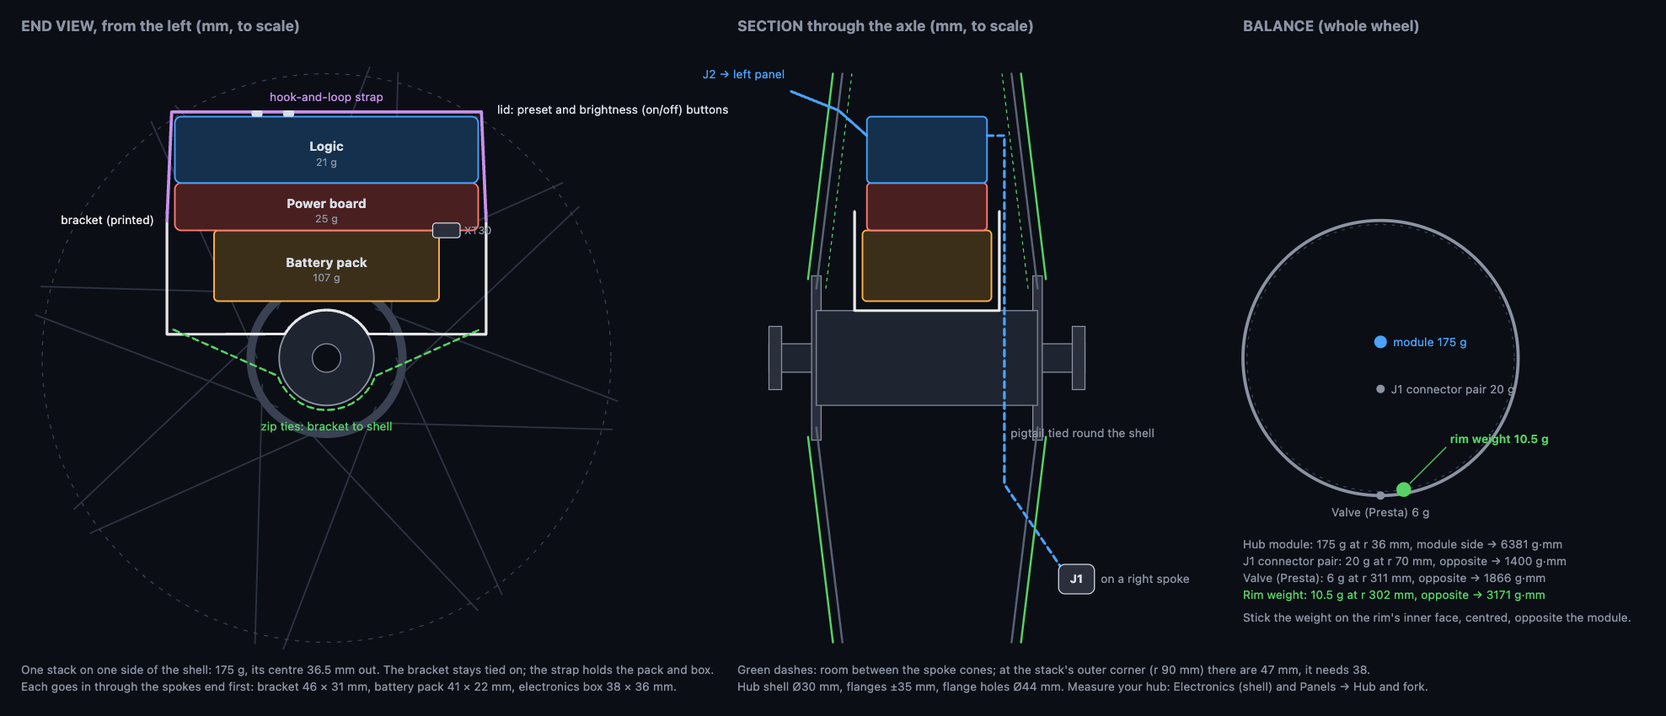
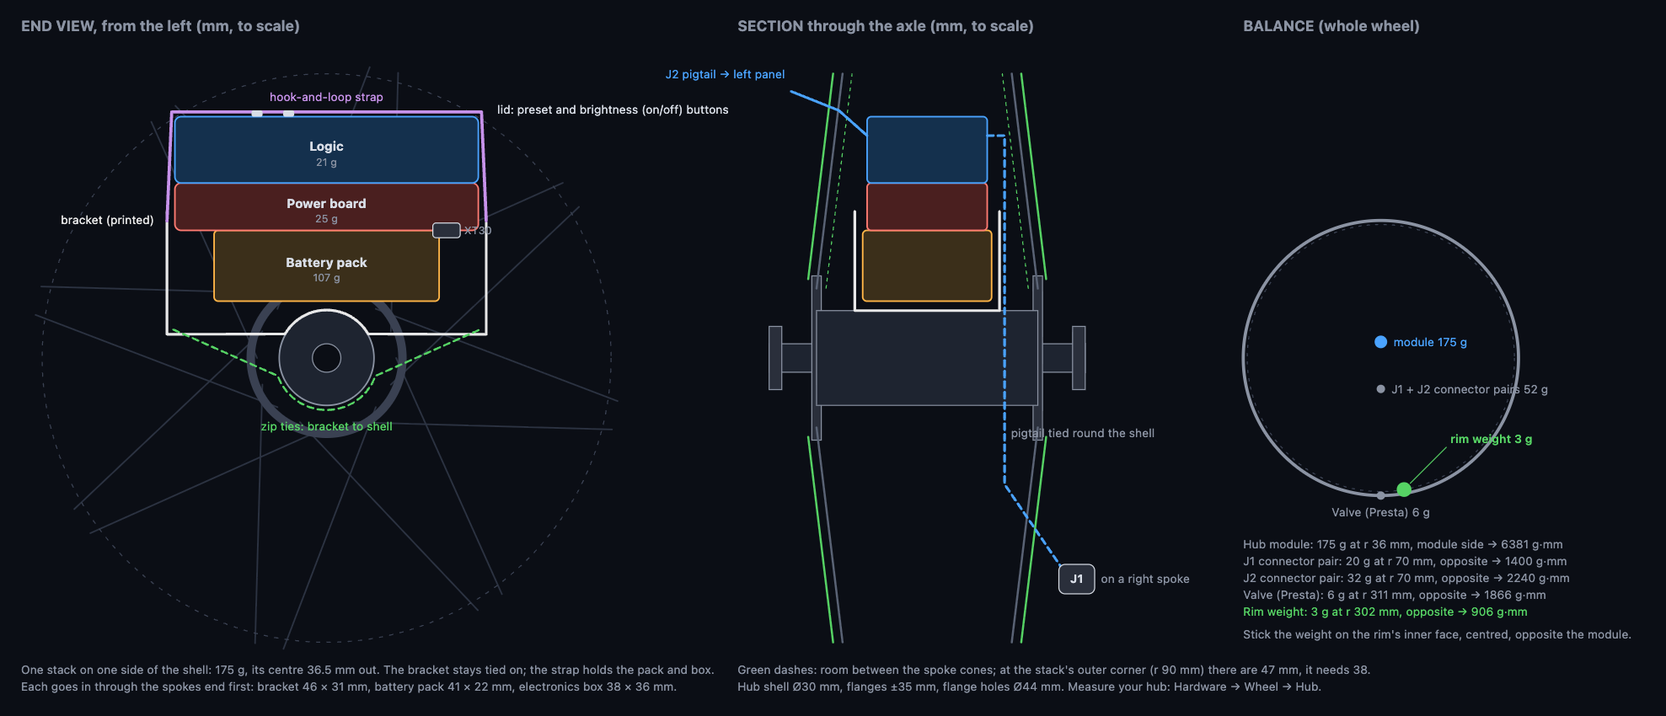
Plug the left panel in through a 15-pin connector (J2)
The module now comes off for service with both panels left on the
wheel. J2 is a Weipu SP21 15-pin (IP68) carrying the left strips and
every hall sensor, one part for any strip count, with spare pins tied
to ground. Adds it to the design, the drawings, the shopping list, the
balance and the docs.

diff --git a/src/electronics/design.ts b/src/electronics/design.ts
@@ -3,9 +3,10 @@
 // shifters. The hub module is one stack on one side of the hub shell, between the flanges, held by a
 // few zip ties so it goes on and comes off in one piece: a battery pack (18650 cells) on a saddle that
 // sits on the shell, and an electronics box on top (power board, then the Feather on its carrier). A
-// weight on the rim opposite balances it. The left panel is wired straight to it; the right panel
-// plugs in through a waterproof 9-pin connector, which also takes the charging lead when the right
-// panel is off.
+// weight on the rim opposite balances it. Each panel plugs in through a waterproof connector, so the
+// module comes off for service with both panels left on the wheel: the left through a 15-pin (J2,
+// which carries the hall sensors too), the right through a 9-pin (J1), which also takes the charging
+// lead when the right panel is off.
 //
 // The data: one PIO program shifts eight lanes out on GPIO0–7, a run of eight pins that all reach the
 // Feather's headers (TX, RX, SDA, SCL, D12, D5, D6, D13), and side-sets the two clocks on GPIO10/11.
@@ -42,7 +43,8 @@ export interface Electronics {
   halls: number;
   pins: PinUse[];
   shifters: Shifter[];
-  connector: ConnPin[];
+  connector: ConnPin[];      // J1, the right panel
+  leftConnector: ConnPin[];  // J2, the left panel
   leftHarness: Wire[];
   rightHarness: Wire[];
   power: {
@@ -74,6 +76,7 @@ const BOOST_IN_A = 7;        // Pololu U3V70F5: input current it sustains
 const BOOST_EFF = 0.85;
 const CELL_V = 3.6;          // a working cell voltage under load
 const PIN_A = 3;             // Weipu SP13 9-pin, per contact
+const J2_PIN_A = 5;          // Weipu SP21 15-pin, per contact
 const CELL = { d: 18.4, len: 65.2, g: 46.5 };
 const STRIP_G_PER_MM = 0.06;  // DotStar 144/m in its sleeve, about 60 g a metre (estimate: weigh yours)
 const BLADE_G_PER_MM = 0.04;  // a 27 mm polypropylene blade with its tabs, per mm of length (estimate)
@@ -151,6 +154,26 @@ export function designElectronics(p: Params): Electronics {
       : { n: 6 + i, net: 'GND', use: 'spare (ground)' });
   }
 
+  // ---- Connector J2 (left panel, Weipu SP21 15-pin): the strips and the hall sensors, one part for any strip count ----
+  const leftConnector: ConnPin[] = [
+    { n: 1, net: '+5V_L', use: '5 V to the left strips' },
+    { n: 2, net: '+5V_L', use: '5 V, second contact' },
+    { n: 3, net: 'GND', use: 'ground' },
+    { n: 4, net: 'GND', use: 'ground, second contact' },
+    { n: 5, net: 'CLK_L5', use: 'clock to every left strip' },
+  ];
+  for (let i = 0; i < 4; i++) {
+    leftConnector.push(i < n
+      ? { n: 6 + i, net: `L${i + 1}_5`, use: `left strip ${i + 1} data` }
+      : { n: 6 + i, net: 'GND', use: 'spare (ground)' });
+  }
+  leftConnector.push({ n: 10, net: 'HALL_V', use: 'hall sensors\' supply' }, { n: 11, net: 'HALL_GND', use: 'hall sensors\' ground' });
+  for (let i = 0; i < 4; i++) {
+    leftConnector.push(i < halls
+      ? { n: 12 + i, net: `HALL${i + 1}`, use: `hall sensor ${i + 1} output` }
+      : { n: 12 + i, net: 'HALL_GND', use: 'spare (hall ground)' });
+  }
+
   // ---- Harnesses ----
   const leftHarness: Wire[] = [
     { net: '+5V_L', colour: 'red', awg: 22, use: '5 V to the left strips' },
@@ -185,6 +208,7 @@ export function designElectronics(p: Params): Electronics {
   if (capA > boostMaxA) warnings.push(`The ${capA} A LED limit is more than the boost gives from a ${CELL_V} V cell (about ${power.boostMaxA} A): lower it, or use a second boost per side.`);
   if (battA / p.cells > 10) warnings.push(`Each cell gives ${power.perCellA} A at the LED limit: add a cell or lower the limit (keep high-drain cells under ~10 A).`);
   if (perSideA / 2 > PIN_A) warnings.push(`The right side draws ${power.perSideA} A over two 5 V contacts, more than the connector's ${PIN_A} A each.`);
+  if (perSideA / 2 > J2_PIN_A) warnings.push(`The left side draws ${power.perSideA} A over two 5 V contacts, more than J2's ${J2_PIN_A} A each.`);
   notes.push(`Full white on every LED would need ${power.peakA} A. The firmware scales each column so the strips never draw more than `
     + `${power.capA} A in all (most pictures need far less: see Stats).`);
 
@@ -245,8 +269,10 @@ export function designElectronics(p: Params): Electronics {
     { name: 'Valve (Presta)', massG: 6, r: rimR, angleDeg: 180 },
   ];
   const sum = (ms: Mass[]) => ms.reduce((m, q) => m + q.massG * q.r * Math.cos((q.angleDeg * Math.PI) / 180), 0);
-  // J1 goes on whichever side is light, so it takes the place of some of the rim weight
-  masses.splice(masses.length - 1, 0, { name: 'J1 connector pair', massG: 20, r: 70, angleDeg: sum(masses) >= 0 ? 180 : 0 });
+  // J1 and J2 go on whichever side is light, so they take the place of some of the rim weight
+  const light = sum(masses) >= 0 ? 180 : 0;
+  masses.splice(masses.length - 1, 0, { name: 'J1 connector pair', massG: 20, r: 70, angleDeg: light },
+    { name: 'J2 connector pair', massG: 32, r: 70, angleDeg: light });
   const net = sum(masses);
   const cwR = rimR - p.rimDepthMm;
   const counterweight: Mass = { name: 'Rim weight', massG: Math.ceil((Math.abs(net) / cwR) * 2) / 2, r: cwR, angleDeg: net >= 0 ? 180 : 0 };
@@ -257,16 +283,16 @@ export function designElectronics(p: Params): Electronics {
   ];
   notes.push(`The hub module is one stack on one side of the shell. A 3D-printed bracket stays tied to the shell (three zip ties, or `
     + `through the flange windows on a cut-out track hub); the battery pack and the electronics box sit in it, joined by an XT30, under a `
-    + `hook-and-loop strap. To take the electronics off: undo the strap, unplug J1 (the left panel comes with them).`);
+    + `hook-and-loop strap. To take the electronics off for service: undo the strap and unplug J1 and J2; both panels stay on the wheel.`);
   const cwSide = counterweight.angleDeg === 180 ? 'opposite the module' : 'on the module\'s side';
   if (n === 1) {
     const j1 = masses.find((q) => q.name.startsWith('J1'));
     notes.push(`Balance: one blade a side puts both blades and strips (about ${oneBlade[0].massG} g) on one side of the wheel. Fit the `
-      + `module opposite them, the valve on their side${j1 ? `, J1 ${j1.angleDeg ? 'on their side' : 'on the module\'s side'}` : ''}, and `
+      + `module opposite them, the valve on their side${j1 ? `, J1 and J2 ${j1.angleDeg ? 'on their side' : 'on the module\'s side'}` : ''}, and `
       + `stick ${counterweight.massG} g on the rim's inner face ${cwSide}. The blade and strip masses are estimates: weigh them, and check `
       + `by spinning the wheel in the stand.`);
   } else {
-    notes.push(`Balance: ${Math.round(moduleG)} g with its centre ${Math.round(moduleR)} mm out. Fit it opposite the valve, tie J1 on the `
+    notes.push(`Balance: ${Math.round(moduleG)} g with its centre ${Math.round(moduleR)} mm out. Fit it opposite the valve, tie J1 and J2 on the `
       + `far side too, and stick ${counterweight.massG} g on the rim's inner face ${cwSide}. Take the weight off with the module.`);
   }
   notes.push(`Each piece goes in through the spokes on its own, end first: the bracket needs a gap of about ${pieces[0].opening.join(' '
@@ -329,6 +355,9 @@ export function designElectronics(p: Params): Electronics {
       + 'SP1311/S9', source: 'Digi-Key, Mouser', note: 'module side: live pins stay shrouded' },
     { group: 'Wheel', qty: 2, item: 'Waterproof circular connector, 9-pin, IP68, cable plug (male)', part: 'Weipu SP1310/P9', source: 'Digi-Key, Mouser', note: 'right panel + charging lead' },
     { group: 'Wheel', qty: 1, item: 'SP13 dust cap for the socket (riding without the right panel)', part: 'Weipu SP13 cap', source: 'Digi-Key, Mouser' },
+    { group: 'Wheel', qty: 1, item: 'Waterproof circular connector, 15-pin, IP68, inline socket (female)', part: 'Weipu SP2111/S15', source: 'Digi-Key, '
+      + 'Mouser', note: 'J2, module side: live pins stay shrouded' },
+    { group: 'Wheel', qty: 1, item: 'Waterproof circular connector, 15-pin, IP68, cable plug (male)', part: 'Weipu SP2110/P15', source: 'Digi-Key, Mouser', note: 'left panel' },
     { group: 'Wheel', qty: 1, item: 'USB-C sink breakout with 5.1 kΩ CC resistors (charging lead)', part: 'any USB-C breakout', source: 'any' },
     { group: 'Carrier board', qty: 1, item: `Carrier PCB, ${CARRIER.w} × ${CARRIER.h} mm, 2-layer, through-hole (from the Board `
       + `sheet)`, part: '—', source: 'PCB fab (OSH Park, JLCPCB, PCBWay)', note: 'bare board: every part below is through-hole, soldered by hand' },
@@ -355,7 +384,7 @@ export function designElectronics(p: Params): Electronics {
 
 
   return {
-    n, cells: p.cells, leds: L, totalLeds, lanes, halls, pins, shifters, connector, leftHarness, rightHarness, power,
+    n, cells: p.cells, leds: L, totalLeds, lanes, halls, pins, shifters, connector, leftConnector, leftHarness, rightHarness, power,
     hub: { shellR, flangeR, flangeZ, oldHalf: p.hubOldMm / 2, rimR, layers, bracket, freeAxialAt, moduleG: Math.round(moduleG), moduleR: r1(moduleR), masses, counterweight, pieces },
     bom, knownCost, notes, warnings,
   };

diff --git a/src/electronics/sheets.ts b/src/electronics/sheets.ts
@@ -344,9 +344,9 @@ function circuit(e: Electronics): Sheet {
 
   // ---- Connectors and panels (right column) ----
   const cx = 1530;
-  g.heading(cx, 30, 'LEFT PANEL (J2, wired)');
-  g.block(cx + 40, 50, 150, 'J2  harness', `${e.leftHarness.length} wires`, e.leftHarness.map((w) => [w.net.replace('_5', ''), w.net]), [], { stub: 30, pitch: 20 });
-  y = 50 + 44 + e.leftHarness.length * 20 + 20;
+  g.heading(cx, 30, 'LEFT PANEL (J2, Weipu SP21 15-pin)');
+  g.block(cx + 40, 50, 150, 'J2  socket', 'module side, female', e.leftConnector.map((q) => [`pin ${q.n}`, q.net]), [], { stub: 30, pitch: 20 });
+  y = 50 + 44 + e.leftConnector.length * 20 + 20;
   g.text(cx, y, `Strips 1–${e.n}: 5V ← +5V_L, GND, CI ← CLK_L5, DI ← L#_5`, { size: 11, fill: C.muted });
   g.text(cx, y + 16, `Hall H1–H${e.halls}: VDD ← HALL_V, GND ← HALL_GND, OUT → HALL#`, { size: 11, fill: C.muted });
   g.text(cx, y + 32, '100 nF across each sensor; 470 µF at the 5 V star', { size: 11, fill: C.muted });
@@ -386,10 +386,19 @@ function wiring(e: Electronics): Sheet {
     }
   }
   g.text(40, 395, '5 V star + 470 µF at the wire slot; hall leads 100 nF', { size: 11, fill: C.muted });
-  // left harness
-  wireRun(320, 560, 120, e.leftHarness);
-  g.text(440, 108, `J2 harness, ${e.leftHarness.length} wires, hard-wired`, { size: 12, anchor: 'middle', weight: 600 });
-  g.text(440, 128 + e.leftHarness.length * 7 + 14, 'out through the wire slot, between the left spokes', { size: 11, anchor: 'middle', fill: C.muted });
+  // left harness, through the J2 pair: the panel's plug, then the module's socket
+  const lh = e.leftHarness.length * 7 + 22;
+  wireRun(320, 372, 120, e.leftHarness);
+  wireRun(508, 560, 120, e.leftHarness);
+  g.rect(372, 106, 64, lh, { fill: '#2a2f3b', stroke: C.ink, r: 10 });
+  g.text(404, 106 + lh / 2 - 4, 'P3', { anchor: 'middle', weight: 700 });
+  g.text(404, 106 + lh / 2 + 12, 'plug ♂', { anchor: 'middle', size: 10, fill: C.muted });
+  g.rect(440, 106, 64, lh, { fill: '#2a2f3b', stroke: C.ink, r: 10 });
+  g.text(472, 106 + lh / 2 - 4, 'J2', { anchor: 'middle', weight: 700 });
+  g.text(472, 106 + lh / 2 + 12, 'socket ♀', { anchor: 'middle', size: 10, fill: C.muted });
+  g.text(440, 94, `${e.leftHarness.length} wires, plugged in`, { size: 12, anchor: 'middle', weight: 600 });
+  g.text(440, 106 + lh + 18, 'Weipu SP21 15-pin, IP68,', { size: 11, anchor: 'middle', fill: C.muted });
+  g.text(440, 106 + lh + 34, 'tied to a left spoke', { size: 11, anchor: 'middle', fill: C.muted });
 
   // hub module
   g.heading(560, 30, 'HUB MODULE (one stack, in a printed bracket)');
@@ -466,23 +475,28 @@ function wiring(e: Electronics): Sheet {
   g.text(1010, 566, 'VBUS → pins 1 + 2, GND → pins 3 + 4. Charge with the wheel switched off: ~1 A.', { size: 11, fill: C.muted });
 
   // wire table
-  const ty = 580;
-  g.heading(20, ty, 'J2 LEFT HARNESS');
+  const ty = 600;
+  g.heading(20, ty, 'LEFT HARNESS (through J2)');
   e.leftHarness.forEach((w, i) => {
     const y = ty + 22 + i * 17;
     g.line([[20, y - 4], [44, y - 4]], { stroke: WIRE[w.colour] ?? C.muted, w: 5 });
     g.text(52, y, `${w.net}`, { size: 11, fill: netColour(w.net), weight: 600 });
     g.text(130, y, `${w.awg} AWG ${w.colour} · ${w.use}`, { size: 11, fill: C.muted });
   });
-  // the right panel
-  g.heading(560, ty, 'J1 PINS');
-  e.connector.forEach((q, i) => {
-    const y = ty + 22 + i * 17;
-    g.text(560, y, `${q.n}`, { size: 11, weight: 700 });
-    g.text(580, y, q.net, { size: 11, fill: netColour(q.net), weight: 600 });
-    g.text(650, y, q.use, { size: 11, fill: C.muted });
-  });
-  return { svg: g.svg(W, Math.max(H, ty + 30 + e.leftHarness.length * 17)), w: W, h: Math.max(H, ty + 30 + e.leftHarness.length * 17) };
+  // the two connectors' pins
+  const pinTable = (x: number, title: string, pins: Electronics['connector']) => {
+    g.heading(x, ty, title);
+    pins.forEach((q, i) => {
+      const y = ty + 22 + i * 17;
+      g.text(x, y, `${q.n}`, { size: 11, weight: 700 });
+      g.text(x + 22, y, q.net, { size: 11, fill: netColour(q.net), weight: 600 });
+      g.text(x + 92, y, q.use, { size: 11, fill: C.muted });
+    });
+  };
+  pinTable(560, 'J2 PINS (left)', e.leftConnector);
+  pinTable(1010, 'J1 PINS (right)', e.connector);
+  const rows = Math.max(e.leftHarness.length, e.leftConnector.length);
+  return { svg: g.svg(W, Math.max(H, ty + 30 + rows * 17)), w: W, h: Math.max(H, ty + 30 + rows * 17) };
 }
 
 // ---------------------------------------------------------------- hub module
@@ -581,7 +595,7 @@ function hub(e: Electronics, spokes: number): Sheet {
   }
   const tz = top.axial / 2;
   g.line([Q(-tz, outerR - 6), Q(-h.flangeZ * 0.8, outerR + 2), Q(-h.flangeZ - 8, outerR + 8)], { stroke: C.data, w: 2.5 });
-  g.text(Q(-h.flangeZ - 10, 0)[0], Q(0, outerR + 12)[1], 'J2 → left panel', { size: 11, fill: C.data, anchor: 'end' });
+  g.text(Q(-h.flangeZ - 10, 0)[0], Q(0, outerR + 12)[1], 'J2 pigtail → left panel', { size: 11, fill: C.data, anchor: 'end' });
   // the right panel
   const j = Q(h.flangeZ + 10, -70);
   g.line([Q(tz, outerR - 6), Q(h.flangeZ * 0.7, outerR - 6), Q(h.flangeZ * 0.7, -40), [j[0], j[1]]], { stroke: C.data, w: 2.5, dash: '6 4' });
@@ -609,7 +623,14 @@ function hub(e: Electronics, spokes: number): Sheet {
   };
   const [mod, ...rest] = h.masses;
   mark(mod.r, mod.angleDeg, C.data, `module ${mod.massG} g`, 6);
-  for (const q of rest) mark(q.r, q.angleDeg, C.muted, `${q.name} ${q.massG} g`, 4, q.r > 200 ? 'middle' : 'start');
+  // masses at the same spot (the two connector pairs) share one mark
+  const spots = new Map<string, typeof rest>();
+  for (const q of rest) spots.set(`${q.r}|${q.angleDeg}`, [...(spots.get(`${q.r}|${q.angleDeg}`) ?? []), q]);
+  for (const qs of spots.values()) {
+    const label = qs.length > 1 ? `${qs.map((q) => q.name.split(' ')[0]).join(' + ')} connector pairs ${qs.reduce((m, q) => m + q.massG, 0)} g`
+      : `${qs[0].name} ${qs[0].massG} g`;
+    mark(qs[0].r, qs[0].angleDeg, C.muted, label, 4, qs[0].r > 200 ? 'middle' : 'start');
+  }
   const cw = h.counterweight;
   const [cwx, cwy] = at(cw.r, cw.angleDeg + 10);
   g.circle(cwx, cwy, 7, { fill: C.ok });

diff --git a/test/electronics.test.ts b/test/electronics.test.ts
@@ -47,11 +47,24 @@ describe('electronics', () => {
     expect(e.power.perPinA).toBeLessThanOrEqual(3);
   });
 
+  it('plugs the left panel in through J2, so the module comes off with both panels left on', () => {
+    expect(e.leftConnector.map((c) => c.n)).toEqual(Array.from({ length: 15 }, (_, i) => i + 1));
+    expect(e.leftConnector.map((c) => c.net)).toEqual(['+5V_L', '+5V_L', 'GND', 'GND', 'CLK_L5', 'L1_5', 'L2_5', 'L3_5', 'L4_5',
+      'HALL_V', 'HALL_GND', 'HALL1', 'HALL2', 'HALL3', 'HALL4']);
+    // every wire of the left harness has a pin
+    for (const w of e.leftHarness) expect(e.leftConnector.some((c) => c.net === w.net)).toBe(true);
+    expect(e.bom.find((b) => b.part === 'Weipu SP2111/S15')!.qty).toBe(1);
+    expect(e.bom.find((b) => b.part === 'Weipu SP2110/P15')!.qty).toBe(1);
+    expect(e.hub.masses.find((q) => q.name.startsWith('J2'))!.angleDeg).toBe(e.hub.masses.find((q) => q.name.startsWith('J1'))!.angleDeg);
+  });
+
   it('fills spare connector pins with ground and fewer lanes with fewer strips', () => {
     const f = designElectronics({ ...p, stripCount: 3 });
     expect(f.lanes.map((l) => l.gpio)).toEqual([0, 1, 2, 4, 5, 6]);
     expect(f.shifters).toHaveLength(2);
     expect(f.connector[8].net).toBe('GND');
+    expect(f.leftConnector[8].net).toBe('GND');
+    expect(f.leftConnector[14].net).toBe('HALL_GND'); // a spare hall pin, on the hall sensors' ground
   });
 
   it('wires the standard build even while the simulator compares it with shared back data', () => {
@@ -76,7 +89,7 @@ describe('electronics', () => {
     expect(Math.abs(sum)).toBeLessThan(0.5 * h.counterweight.r); // within half a gram at the rim
     expect(h.counterweight.angleDeg).toBe(180);
     expect(h.counterweight.r).toBe(p.bsdMm / 2 - p.rimDepthMm);
-    expect(h.counterweight.massG).toBeGreaterThan(5);
+    expect(h.counterweight.massG).toBeGreaterThan(0); // the connectors, on the light side, take some of it
     // more cells, more weight
     expect(designElectronics({ ...p, cells: 4 }).hub.counterweight.massG).toBeGreaterThan(h.counterweight.massG);
   });

diff --git a/src/electronics/electronicsTab.ts b/src/electronics/electronicsTab.ts
@@ -41,10 +41,12 @@ export function buildElectronicsTab(p: Params, pane: HTMLElement, onChange: (key
       ['Battery', `${p.cells} × 18650 (1S${p.cells}P), ${w.ah} Ah · ${w.battA} A at the limit (${w.perCellA} A a cell) · ≥ ${w.runtimeAtCapH} h even at the limit`],
       ['Charging', `~${w.chargeA} A through J1 with the right panel off: ~${w.chargeH} h from empty`],
       ['Right connector', `Weipu SP13 9-pin, IP68: ${w.perSideA} A on two 5 V contacts (${w.perPinA} A each, rated 3 A)`],
+      ['Left connector', `Weipu SP21 15-pin, IP68 (J2): the strips and hall sensors, ${w.perSideA} A on two 5 V contacts (rated 5 A each)`],
+      ['Service', 'undo the strap and unplug J1 and J2: the module comes off, both panels stay on the wheel'],
       ['On/off', 'double-click the brightness button; the firmware also turns off after a while stopped'],
       ['Hub module', `one stack in a printed bracket on a Ø${2 * e.hub.shellR} mm shell: ${e.hub.moduleG} g, centre ${e.hub.moduleR} mm out`],
       ['Balance', `${e.hub.counterweight.massG} g on the rim's inner face ${e.hub.counterweight.angleDeg === 180 ? 'opposite the '
-        + 'module' : 'on the module\'s side'} (module opposite the ${e.n === 1 ? 'blades, valve' : 'valve'} and J1)`],
+        + 'module' : 'on the module\'s side'} (module opposite the ${e.n === 1 ? 'blades, valve' : 'valve'}, J1 and J2)`],
       ['Strips idle', `${w.idleMa} mA with the LEDs dark: the firmware turns the boost off when stopped`],
     ];
     summary.innerHTML = `

diff --git a/docs/electronics.md b/docs/electronics.md
@@ -23,6 +23,7 @@ The tab also lists the power budget, warns about anything that doesn't fit, and 
 | On/off | The brightness button, wired into a soft latch: double-click | No extra switch or magnet |
 | Buttons | Two sealed 12 mm IP67 momentary pushbuttons in the electronics box's lid: preset and brightness | The wheel's controls, on the hub package |
 | Right connector | Weipu SP13 9-pin, IP68: an inline socket on the module's pigtail, a plug on the right panel | Screw-lock, 3 A a contact, and cheap |
+| Left connector | Weipu SP21 15-pin, IP68: an inline socket on the module's left pigtail, a plug on the left panel | The module comes off for service with both panels left on the wheel; 15 pins carry the strips and the hall sensors for any strip count |
 
 The simulator models only this platform, with the standard build fixed: the strip, both sides lit, each strip on its own data lane at 12 MHz, and a hall sensor per strip on an interrupt. The other chips and LED types and the magnetometer are gone. Only the LED PWM rate, which datasheets disagree on, is still editable, under Hardware → LEDs.
 
@@ -120,6 +121,22 @@ The firmware also drops `HOLD` after some minutes stopped.
 
 At the limit the right side draws 1.75 A, about 0.9 A per 5 V contact; each contact is rated 3 A. The live side, the module's pigtail, carries the shrouded socket (SP1311/S9). The right panel and the charging lead carry plugs (SP1310/P9). Cap the socket when the right panel is off. Check the pin genders and numbering against the part's drawing before you wire it.
 
+## Connector J2 (Weipu SP21 15-pin)
+
+The left panel plugs in too, so the module comes off for service with both panels left on the wheel. J2 carries the left strips and every hall sensor, so it has more pins than J1. It is one part for any strip count: unused pins are tied to ground.
+
+| Pin | Net | Use |
+|---|---|---|
+| 1, 2 | +5V_L | 5 V to the left strips |
+| 3, 4 | GND | ground |
+| 5 | CLK_L5 | clock to every left strip |
+| 6–9 | L1_5–L4_5 | left strip data (spare: GND) |
+| 10 | HALL_V | hall sensors' supply (filtered battery) |
+| 11 | HALL_GND | hall sensors' ground, kept off the strip ground |
+| 12–15 | HALL1–HALL4 | hall sensor outputs (spare: HALL_GND) |
+
+Each contact is rated 5 A. As with J1, the module's pigtail carries the shrouded socket (SP2111/S15) and the left panel the plug (SP2110/P15). Tie the pair to a left spoke, on the same side of the wheel as J1: together they take the place of some of the rim weight.
+
 ## Hub module
 
 The module is one stack on one side of the hub shell, between the flanges, built so it goes on and comes off easily:
@@ -128,7 +145,7 @@ The module is one stack on one side of the hub shell, between the flanges, built
 2. **Battery pack:** the cells and their protection board in a printed shell. The cells lie across the axle, two side by side along it. A 65 mm cell along the axle wouldn't clear the spoke cones on a typical road hub.
 3. **Electronics box:** a printed shell with the power board (boost, charger, fuse) and the Feather on its carrier above it. An XT30 joins it to the pack.
 
-A hook-and-loop strap through the bracket's rails holds the pack and the box. To take the electronics off, undo the strap and unplug J1; the left panel comes with them, since it's wired straight on.
+A hook-and-loop strap through the bracket's rails holds the pack and the box. To take the electronics off for service, undo the strap and unplug J1 and J2; both panels stay on the wheel.
 
 Each piece goes in through the spokes on its own, end first, so check the gaps on your wheel. On the defaults:
 
@@ -176,7 +193,7 @@ The board is 90 × 32 mm and etched, 2-layer: a few bare boards cost about $5–
 - **Beside the Feather:** the third shifter, the standing resistors, the transistors, the diodes and the capacitors.
 - **Order:** solder the low parts first and the headers last.
 
-The harnesses solder into numbered 1 mm holes along the board's long edges. J2 runs along the top. Along the bottom go the J1 pigtail, the power board's wires and the lid's two buttons.
+The harnesses solder into numbered 1 mm holes along the board's long edges. The J2 pigtail runs along the top. Along the bottom go the J1 pigtail, the power board's wires and the lid's two buttons.
 
 The board is 96 mm long in its box. The box still fits between the spoke cones, with about 47 mm free where 38 are needed.
 
@@ -187,13 +204,13 @@ The Board sheet is a placement for routing in KiCad, not a routed board. It name
 - **Conformal coating:** coat the carrier, the Feather and the power boards.
 - **Pack and box:** give the printed shells gasketed lids, with neutral-cure silicone where the wires leave.
 - **Strip ends:** the strips' silicone sleeves are weatherproof, but cutting them opens the ends. Cap the cut ends with silicone end caps and neutral-cure RTV. Acetic-cure RTV corrodes copper.
-- **Connector:** the SP13 is IP68 when mated, or with its cap on.
+- **Connectors:** the SP13 and SP21 are IP68 when mated, and the SP13 with its cap on.
 - **Buttons:** IP67 pushbuttons, each sealed in the lid with its own O-ring and nut.
 - **Firmware updates:** the Feather's USB-C is inside the electronics box. Put a removable boot over it in the box's end, or plan to reopen the box.
 
 ## Open questions
 
-- **Pinout check:** check the SP13 9-pin's genders and numbering, and the Feather's header pin positions, against the parts' drawings.
+- **Pinout check:** check the SP13 9-pin's and SP21 15-pin's genders and numbering, and the Feather's header pin positions, against the parts' drawings.
 - **Hub measurements:** measure the hub shell diameter, the spoke hole circle, and the gap between the flanges, and enter them under Hardware → Wheel → Hub.
 - **Spoke gaps:** check that each piece passes through a gap between the spokes.
 - **Charger CE:** confirm the bq24074 breakout's CE pad and its default state.

diff --git a/README.md b/README.md
@@ -102,17 +102,17 @@ One platform: an Adafruit Feather RP2350 (8 MB PSRAM) in a module on the hub she
 - **Sensors:** a hall sensor per strip sits on the left panel.
 - **Power:** two 18650 cells feed a 5 V boost converter, which the firmware turns off when the wheel stops.
 - **Controls:** two sealed buttons in the electronics box's lid choose the preset and the brightness, as the ride bar's **Next ▶** and **☀** do in the simulator. A double click on the brightness button, which is wired into the power latch, switches the wheel off or on.
-- **Connections:** the left panel is wired straight to the module. The right panel plugs in through a 9-pin IP68 connector (Weipu SP13), which also takes a USB-C charging lead when the right panel is off.
+- **Connections:** both panels plug in, so the module comes off for service with the panels left on the wheel. The left panel uses a 15-pin IP68 connector (Weipu SP21), which also carries the hall sensors. The right panel uses a 9-pin one (Weipu SP13), which also takes a USB-C charging lead when the right panel is off.
 
 The **Electronics** tab works all of this out from the build (strips per side, LEDs per strip, spokes, hub). It lists the power budget and a **shopping list** (on screen and as CSV), and draws four sheets. [docs/electronics.md](docs/electronics.md) has the design notes.
 
 The **Circuit** sheet shows the power path, the on/off latch, the controller's pins, the level shifters, the buttons and both panels' connections:
 
-![Circuit sheet: battery, protection, fuse, boost and charger; the on/off latch; the Feather's pin map with the data lanes on GPIO0–7; hall and button inputs; the 74AHCT125 level shifters; the left harness and the right connector's pins](docs/images/electronics-circuit.png)
+![Circuit sheet: battery, protection, fuse, boost and charger; the on/off latch; the Feather's pin map with the data lanes on GPIO0–7; hall and button inputs; the 74AHCT125 level shifters; both panel connectors' pins](docs/images/electronics-circuit.png)
 
 The **Wiring** sheet shows the left panel's harness, the hub module's layers, the right panel's plug-in connector and the charging lead, with every wire's colour and gauge:
 
-![Wiring sheet: the left panel's harness into the hub module, the logic, power board and battery pack in their bracket, the 9-pin connector to the right panel, the USB-C charging lead, and the harness and connector pin tables](docs/images/electronics-wiring.png)
+![Wiring sheet: the left panel's harness through its 15-pin connector into the hub module, the logic, power board and battery pack in their bracket, the 9-pin connector to the right panel, the USB-C charging lead, and the harness and both connectors' pin tables](docs/images/electronics-wiring.png)
 
 The **Hub module** sheet shows the module to scale. It is one stack on one side of the hub shell: the battery pack, then the electronics box, in a 3D-printed bracket tied to the shell. A hook-and-loop strap holds the pack and box, so they come off easily. The sheet checks the stack's fit between the spoke cones, and adds up the module, the connector and the valve to work out the rim weight that balances them (10.5 g on the default wheel):
 
